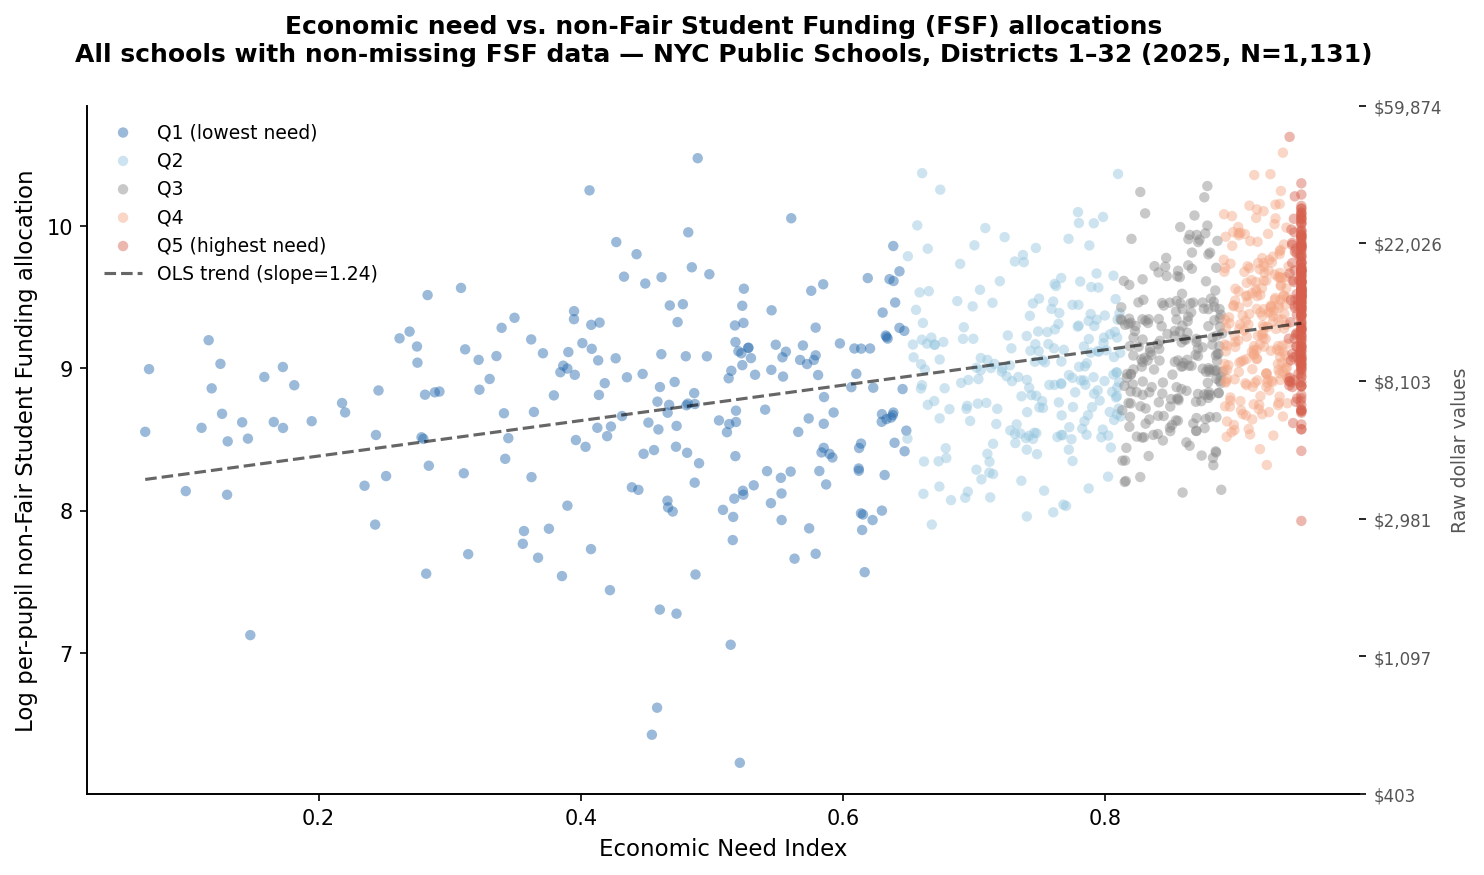
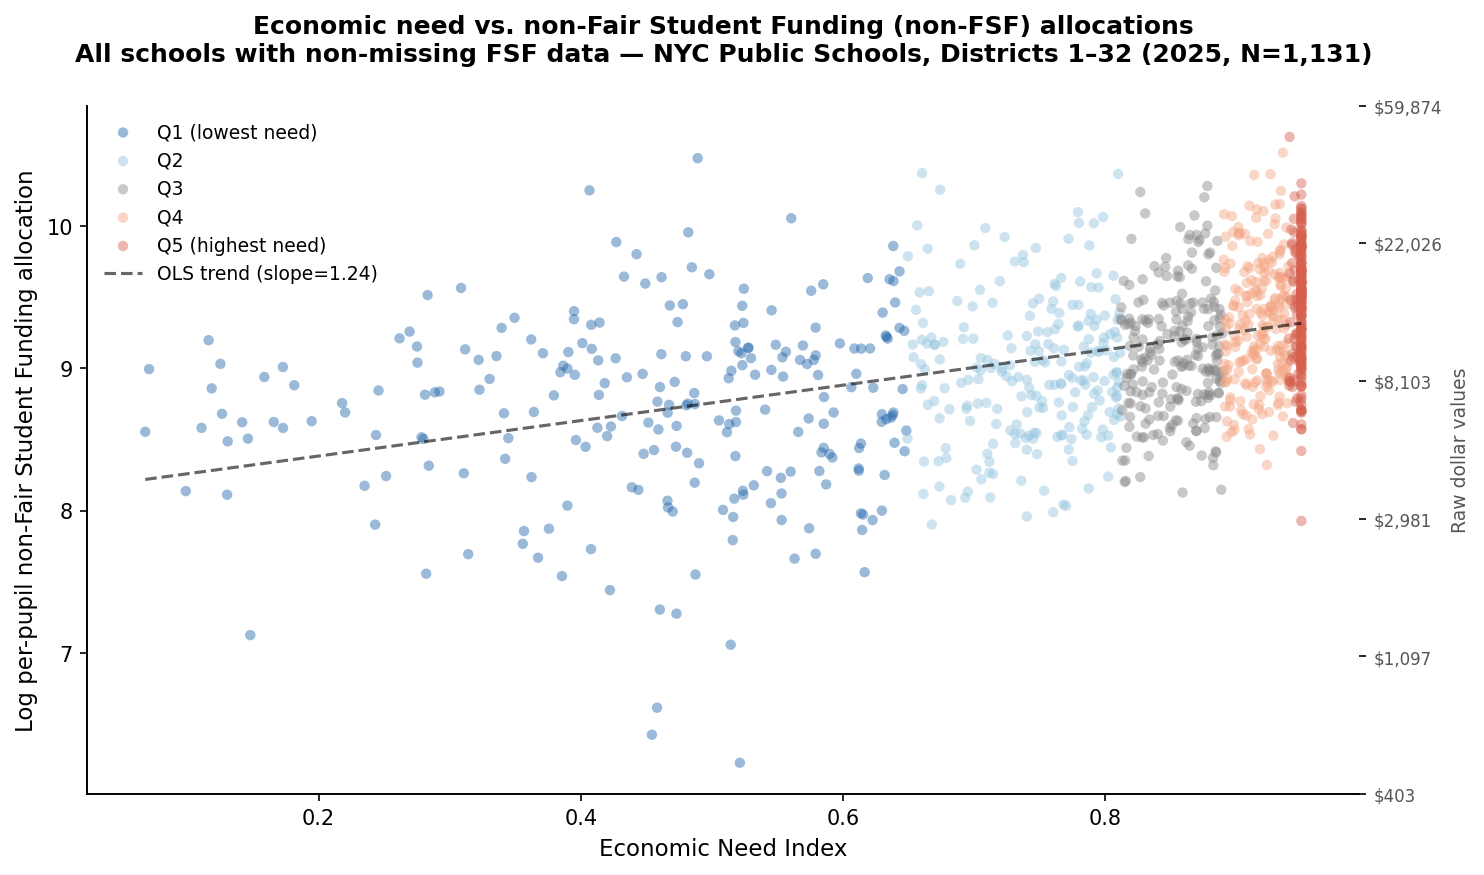
refactor visualization/main

Changed region(s): [[0.155, 0.0, 0.8059, 0.0617]]

diff --git a/src/visualization/main.py b/src/visualization/main.py
@@ -208,6 +208,98 @@ def create_fig8(funding_df, active_df):
         sys.exit(1)
 
 
+def create_fig9(funding_df): 
+    try: 
+        plot_eni_vs_finance_scatter(
+            funding_df.query("pp_fsf > 0"), year=2025,
+            finance_col="pp_fsf",
+            ylabel="Log per-pupil Fair Student Funding allocation",
+            title="Economic need vs. Fair Student Funding (FSF) allocations\n",
+            subtitle="All schools with non-missing PTA data — NYC Public Schools, Districts 1–32",
+            legend_loc="upper left",
+            save_path="output/figures/fig9a_eni_vs_fsf.png"
+        )
+
+        plot_eni_vs_finance_scatter(
+            funding_df.query("pp_non_fsf > 0"), year=2025,
+            finance_col="pp_non_fsf",
+            ylabel="Log per-pupil non-Fair Student Funding allocation",
+            title="Economic need vs. non-Fair Student Funding (non-FSF) allocations\n",
+            subtitle="All schools with non-missing FSF data — NYC Public Schools, Districts 1–32",
+            legend_loc="upper left",
+            save_path="output/figures/fig9b_eni_vs_non_fsf.png"
+        )
+
+    except Exception as e:
+        print(f"Create figure 9 failed: {str(e)}")
+        sys.exit(1)
+
+
+def create_fig10(funding_df): 
+    try: 
+        plot_funding_stacked(
+            funding_df,
+            year=2025,          
+            funding_cols=["pp_fsf", "pp_non_fsf", "pp_pta_expenditure"],
+            quantile_col="eni_quintile",
+            title="Total school funding by ENI quintile\n", 
+            subtitle="All schools with non-missing PTA data — NYC Public Schools, Districts 1–32",
+            save_path = "output/figures/fig10_total_funding_by_eni_quintile.png",
+        )
+
+    except Exception as e:
+        print(f"Create figure 10 failed: {str(e)}")
+        sys.exit(1)
+
+
+def create_fig11(funding_df): 
+    try: 
+        plot_eni_vs_finance_scatter(
+            funding_df, year=2025,
+            finance_col="pta_expenditure_as_p_of_total",
+            ylog=False,
+            ylabel="PTA expenditure as share of total funding (%)",
+            show_ols=False,
+            title="Economic need vs. PTA expenditure as share of total funding\n",
+            subtitle="All schools with non-missing PTA data — NYC Public Schools, Districts 1–32",
+            legend_loc="upper right",
+            save_path="output/figures/fig11a_eni_vs_pta_as_share_of_total.png"
+        )
+
+
+        plot_eni_vs_finance_scatter(
+            funding_df, year=2025,
+            finance_col="pta_expenditure_as_p_of_fsf",
+            ylog=False,
+            ylabel="PTA expenditure as share of FSF (%)",
+            show_ols=False,
+            title="Economic need vs. PTA expenditure as share of FSF allocations\n",
+            subtitle="All schools with non-missing PTA data — NYC Public Schools, Districts 1–32",
+            legend_loc="upper right",
+            save_path="output/figures/fig11b_eni_vs_pta_as_share_of_fsf.png"
+        )
+
+    except Exception as e:
+        print(f"Create figure 11 failed: {str(e)}")
+        sys.exit(1)
+
+
+def create_fig12(funding_df): 
+    try: 
+        plot_total_funding_dotplot(
+            funding_df, year=2025,
+            total_funding_col="pp_total_funding", 
+            public_funding_col="pp_total_public",  
+            pta_share_col="pta_expenditure_as_p_of_total", 
+            quantile_col="eni_quintile",
+            title="PTA expenditures relative to total funding by ENI quintile",
+            subtitle="All schools with non-missing PTA data — NYC Public Schools, Districts 1–32",
+            save_path="output/figures/fig12_total_funding_dotplot"
+        )
+
+    except Exception as e:
+        print(f"Create figure 12 failed: {str(e)}")
+        sys.exit(1)
 
 
 if __name__ == "__main__":
@@ -275,69 +367,18 @@ if __name__ == "__main__":
     # -----> PTA quintile trends over time
     create_fig8(funding_df=funding_final, active_df=active)
 
-    plot_eni_vs_finance_scatter(
-        funding_final.query("pp_fsf > 0"), year=2025,
-        finance_col="pp_fsf",
-        ylabel="Log per-pupil Fair Student Funding allocation",
-        title="Economic need vs. Fair Student Funding (FSF) allocations\n",
-        subtitle="All schools with non-missing PTA data — NYC Public Schools, Districts 1–32",
-        legend_loc="upper left",
-        save_path="output/figures/fig9a_eni_vs_fsf.png"
-    )
+    # -----> ENI vs. FSF and non-FSF
+    create_fig9(funding_df=funding_final)
 
-    plot_eni_vs_finance_scatter(
-        funding_final.query("pp_non_fsf > 0"), year=2025,
-        finance_col="pp_non_fsf",
-        ylabel="Log per-pupil non-Fair Student Funding allocation",
-        title="Economic need vs. non-Fair Student Funding (non-FSF) allocations\n",
-        subtitle="All schools with non-missing FSF data — NYC Public Schools, Districts 1–32",
-        legend_loc="upper left",
-        save_path="output/figures/fig9b_eni_vs_non_fsf.png"
-    )
+    # -----> Total funding by ENI quintile 
+    create_fig10(funding_df=funding_final)
 
-    plot_funding_stacked(
-        funding_final,
-        year=2025,          
-        funding_cols=["pp_fsf", "pp_non_fsf", "pp_pta_expenditure"],
-        quantile_col="eni_quintile",
-        title="Total school funding by ENI quintile\n", 
-        subtitle="All schools with non-missing PTA data — NYC Public Schools, Districts 1–32",
-        save_path = "output/figures/fig10_funding_by_eni_quintile.png",
-    )
+    # -----> ENI vs. PTA as a share of total funding and FSF 
+    create_fig11(funding_df=funding_final)
+
+    # -----> Total funding dotplot
+    create_fig12(funding_df=funding_final)
 
 
-    plot_eni_vs_finance_scatter(
-        funding_final, year=2025,
-        finance_col="pta_expenditure_as_p_of_total",
-        ylog=False,
-        ylabel="PTA expenditure as share of total funding (%)",
-        show_ols=False,
-        title="Economic need vs. PTA expenditure as share of total funding\n",
-        subtitle="All schools with non-missing PTA data — NYC Public Schools, Districts 1–32",
-        legend_loc="upper right",
-        save_path="output/figures/fig11a_eni_vs_pta_as_share_of_total.png"
-    )
 
 
-    plot_eni_vs_finance_scatter(
-        funding_final, year=2025,
-        finance_col="pta_expenditure_as_p_of_fsf",
-        ylog=False,
-        ylabel="PTA expenditure as share of FSF (%)",
-        show_ols=False,
-        title="Economic need vs. PTA expenditure as share of FSF allocations\n",
-        subtitle="All schools with non-missing PTA data — NYC Public Schools, Districts 1–32",
-        legend_loc="upper right",
-        save_path="output/figures/fig11b_eni_vs_pta_as_share_of_fsf.png"
-    )
-
-    plot_total_funding_dotplot(
-        funding_final, year=2025,
-        total_funding_col="pp_total_funding", 
-        public_funding_col="pp_total_public",  
-        pta_share_col="pta_expenditure_as_p_of_total", 
-        quantile_col="eni_quintile",
-        title="PTA expenditures relative to total funding by ENI quintile",
-        subtitle="All schools with non-missing PTA data — NYC Public Schools, Districts 1–32",
-        save_path="output/figures/fig12_total_funding_dotplot"
-    )

diff --git a/README.md b/README.md
@@ -21,7 +21,7 @@ create funding gaps that mirror socioeconomic and racial segregation.
 NYC public schools draw on several district funding streams:
 
 - The primary source of public funding is the Fair Student Funding (FSF) formula, an equity- and needs-based allocation system that provides schools with discretionary dollars for foundational and instructional costs (e.g., staffing, educational programming, supplies and technology, and general costs).
-- Schools also receive non-FSF allocations, which fall into three categories:
+- The other public funding source is non-FSF allocations, which fall into three categories:
     - federal and state caegorical funds restricted to specific student populations (e.g., Title I for low-income students, Title III for English Language Learners),
     - city programmatic funding for targeted grants and city-mandated initiatives like pre-K expansion, and
     - central and ancillary costs for system-wide services like transportation, custodial maintenance, and school safety.
@@ -143,15 +143,14 @@ Additionally, even including PTA expenditures, schools in the lowest economic ne
 
 <img src="output/figures/fig12_total_funding_dotplot.png" width="600">
 
-This indicates that PTA expenditures do not fully offset the redistributive design of public school funding: schools in the lowest-need quintile (Q1) still receive less in total funding than higher-need quintiles even after PTA dollars are included. In other words, the FSF formula is working as-intended. However, as alluded to above, among the schools with the highest PTA expenditures, PTA dollars can comprise a significant share of total funding amounts—which may work against the equity imperative that public dollars are intended to enforce.
+This indicates that PTA expenditures do not fully offset the redistributive design of public school funding: schools in the lowest-need quintile (Q1) still receive less in total funding than higher-need quintiles even after PTA dollars are included. However, as alluded to above, among the schools with the highest PTA expenditures, PTA dollars can comprise a significant share of total funding amounts—which may work against the equity imperative that public dollars are intended to enforce.
 
 <img src="output/figures/fig11a_eni_vs_pta_as_share_of_total.png" width="600">
 
 ### Increasing inequity over time
 
 As demonstrated below, the gap between the 20% of schools with the lowest economic need (Q1) and the remaining 80% (Q2-Q5) is stark and is widening.
-And although PTA incomes and expenditures for the top quintile of schools by ENI dipped sharply during the pandemic,
-their _ending balances_—i.e., the money that the PTA carries over year-to-year—continued to steadily increase.
+And although PTA incomes and expenditures for the top quintile of schools by ENI dipped sharply during the pandemic, their _ending balances_—i.e., the money that the PTA carries over year-to-year—continued to steadily increase, suggesting that these PTAs are _accumulating_ wealth over time.
 
 <img src="output/figures/fig7_eni_quintile_trends.png" width="900">
 
@@ -166,6 +165,7 @@ The publicly available PTA fundraising data had a substantial number of accounti
 - Accounting errors like values expressed in cents rather than dollars.
 
 In particular, the cross-year balance discrepancies - where the previous year's ending balance differed from the starting balance by over both 5% of the starting balance, and a raw amount of $50,000\* - were highly concentrated in the schools with the wealthiest PTAs. This may warrant further investigation to see if these errors are happening systematically or intentionally.
+
 <img src="output/figures/fig1c_balance_flag_vs_expenditure_hist.png" width="600">
 <img src="output/figures/fig2c_transaction_flag_vs_expenditure_hist.png" width="600">
 
